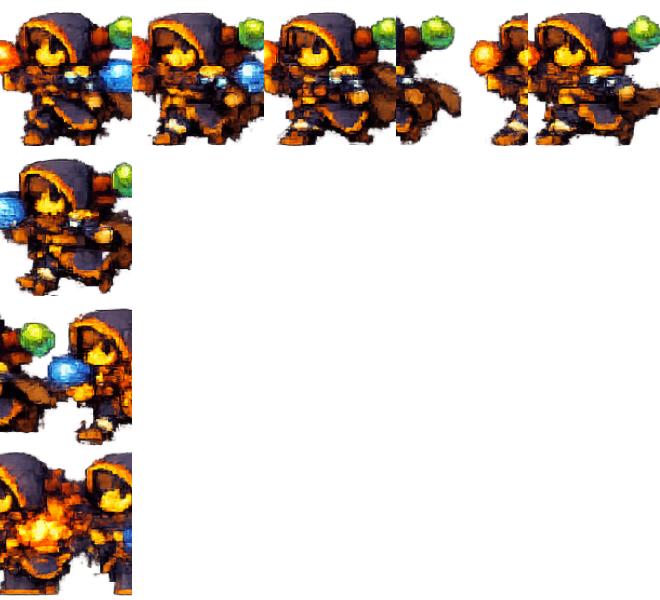
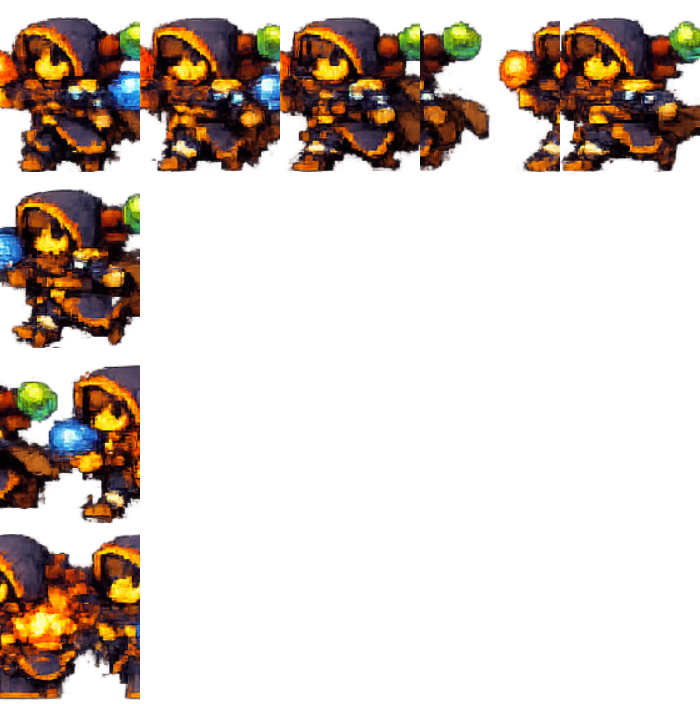
Add monster sprites + dragon boss; fix hero clipping and archer facing
Monsters: turn the single-image uploads into looping animation strips
(make-mobs.mjs) with type motion — slime squash, ghost float, orc/skeleton
breathe, dragon breathe; ghost.png is split into ghost + skeleton. Enemies now
render these via the sheet system (normal/fast=slime, runner/golem=orc,
tank=skeleton, wraith=ghost) with canvas fallback, and the boss is the dragon.

Fixes from feedback:
- Hero frames no longer clip: re-slice at a taller cell (140x176) scaled to the
  tallest frame so raised weapons/effects fit fully; bump HFIT to keep size.
- Archer faces the right way again (flip removed for Faye; its art already
  faces the attack direction).
- Larger enemy/boss sprites so the dragon reads as imposing.

verify7 updated for the monster configs and new flip rules; full suite passes.

Claude-Session: https://claude.ai/code/session_0137Kmgx8usseqRPpPc7daxH

Changed region(s): [[0.0, 0.0, 1.0, 1.0]]

diff --git a/game.js b/game.js
@@ -45,6 +45,8 @@ const ENEMY_TYPES = {
   golem:  { hp:4.5, spd:13, size:2.0,  gold:4 },
   wraith: { hp:1.3, spd:34, size:1.1,  gold:2, slowImmune:true, float:true },
 };
+// which monster sprite each enemy type uses (falls back to canvas art)
+const ENEMY_SPRITE = { normal:'slime', fast:'slime', runner:'orc', tank:'skeleton', golem:'orc', wraith:'ghost' };
 const SLOW_FACTOR = 0.42;              // movement multiplier while frozen
 const PARTY_BUFF_MUL = 1.30;           // Aunel's Dawn Blessing damage buff
 
@@ -684,38 +686,36 @@ function draw(now){
   for (const e of enemies){
     const t = ENEMY_TYPES[e.type] || ENEMY_TYPES.normal;
     const es = size * (e.boss ? 3 : t.size);
-    const floatOff = t.float ? (10 + Math.sin(now/300)*4) : 0;
-    const by = e.y - floatOff;
-    if (e.boss){
-      const atCrystal = e.x <= view.crystalX + 40 * px;
-      const drew = window.Sheets && Sheets.draw(ctx, 'boss', e.x, by, es*16, atCrystal ? 'attack' : 'walk', now);
-      if (!drew){ if (Spr().drawBoss) Spr().drawBoss(ctx, e.x, by, es, e.frame); else drawFallbackChar(e.x, by, es, '#b3407a'); }
+    const sid = e.boss ? 'dragon' : ENEMY_SPRITE[e.type];
+    const th = es * (e.boss ? 12 : 14);               // sprite target height
+    let drew = false, by = e.y;
+    if (window.Sheets && sid) drew = Sheets.draw(ctx, sid, e.x, e.y, th, 'idle', now);
+    if (!drew){
+      const floatOff = t.float ? (10 + Math.sin(now/300)*4) : 0;
+      by = e.y - floatOff;
+      if (e.boss){ if (Spr().drawBoss) Spr().drawBoss(ctx, e.x, by, es, e.frame); else drawFallbackChar(e.x, by, es, '#b3407a'); }
+      else if (Spr().drawEnemy) Spr().drawEnemy(ctx, e.x, by, es, e.type, e.frame, e.hp/e.maxHp);
+      else drawFallbackChar(e.x, by, es, '#b3407a');
     }
-    else if (Spr().drawEnemy) Spr().drawEnemy(ctx, e.x, by, es, e.type, e.frame, e.hp/e.maxHp);
-    else drawFallbackChar(e.x, by, es, '#b3407a');
-    // frozen overlay
+    const spH = drew ? th : es*15;                    // overlays/hp-bar sized to the sprite
+    const ow = spH * 0.62;
     if (e.slow > 0){
       ctx.save(); ctx.globalAlpha = 0.35; ctx.fillStyle = '#9fe4ff';
-      ctx.fillRect(e.x - es*7, by - es*17, es*14, es*17); ctx.restore();
+      ctx.fillRect(e.x - ow/2, by - spH, ow, spH); ctx.restore();
     }
-    // golden shimmer overlay
     if (e.golden){
       ctx.save();
       ctx.globalAlpha = 0.28 + 0.12*Math.sin(now/120 + e.x);
-      ctx.fillStyle = '#ffe14d';
-      ctx.fillRect(e.x - es*7, by - es*17, es*14, es*17);
+      ctx.fillStyle = '#ffe14d'; ctx.fillRect(e.x - ow/2, by - spH, ow, spH);
       ctx.globalAlpha = 0.9; ctx.fillStyle = '#fff6c0';
-      for (let k = 0; k < 3; k++){
-        const a = now/200 + k*2.1;
-        ctx.fillRect(e.x + Math.cos(a)*es*8 - 1, by - es*9 + Math.sin(a)*es*8 - 1, 3, 3);
-      }
+      for (let k = 0; k < 3; k++){ const a = now/200 + k*2.1;
+        ctx.fillRect(e.x + Math.cos(a)*ow*0.5 - 1, by - spH*0.5 + Math.sin(a)*spH*0.4 - 1, 3, 3); }
       ctx.restore();
     }
-    // hp bar
     const bw = 22*px * (e.boss ? 2.2 : t.size);
-    ctx.fillStyle = '#000a'; ctx.fillRect(e.x-bw/2, by - es*15 - 8, bw, 4);
+    ctx.fillStyle = '#000a'; ctx.fillRect(e.x-bw/2, by - spH - 6, bw, 4);
     ctx.fillStyle = e.boss ? '#ff5db1' : '#ff6b6b';
-    ctx.fillRect(e.x-bw/2, by - es*15 - 8, bw*(e.hp/e.maxHp), 4);
+    ctx.fillRect(e.x-bw/2, by - spH - 6, bw*(e.hp/e.maxHp), 4);
   }
 
   // heroes
@@ -739,7 +739,7 @@ function draw(now){
       if (fn){
         // scale the canvas art up so it matches the (larger) sheet heroes
         ctx.save();
-        ctx.translate(slot.x, slot.y); ctx.scale(1.8, 1.8);
+        ctx.translate(slot.x, slot.y); ctx.scale(2.0, 2.0);
         fn(ctx, 0, 0, size, frame);
         ctx.restore();
       } else drawFallbackChar(slot.x, slot.y, size, slot.def.color);

diff --git a/sheets.js b/sheets.js
@@ -24,17 +24,25 @@ window.Sheets = (function () {
   // (idle/walk/attack/cast); frame counts per row vary and are set below.
   const rows4 = (i,w,a,c) => ({ idle:{row:0,frames:i,fps:7}, walk:{row:1,frames:w,fps:9},
                                 attack:{row:2,frames:a,fps:12}, cast:{row:3,frames:c,fps:11} });
+  // monster: one looping row used for every state
+  const mob = n => ({ idle:{row:0,frames:n,fps:8}, walk:{row:0,frames:n,fps:8},
+                      attack:{row:0,frames:n,fps:8}, cast:{row:0,frames:n,fps:8} });
   // flip:true mirrors the sprite horizontally so it faces the incoming enemies
   // (right). Aunel has no sheet and uses the built-in canvas art.
   // sliced sheets pack every character at the same body height, so heroes share
   // one fit for a consistent on-screen size.
-  const HFIT = 1.6;
+  const HFIT = 2.1;   // no-clip cells have headroom, so scale up to stay prominent
   const SHEET_CONFIG = {
     garran: { file:'warrior.png',  rows:4, cols:5, fit:HFIT, flip:true, anim:rows4(5,2,1,1) },  // Knight  (warrior art)
     mira:   { file:'wizard.png',   rows:4, cols:8, fit:HFIT, flip:true, anim:rows4(5,8,2,2) },  // Mage    (purple wizard art)
-    faye:   { file:'archer.png',   rows:4, cols:5, fit:HFIT, flip:true, anim:rows4(5,5,1,2) },  // Archer
+    faye:   { file:'archer.png',   rows:4, cols:5, fit:HFIT,            anim:rows4(5,5,1,2) },  // Archer  (art already faces right)
     rai:    { file:'sorcerer.png', rows:4, cols:5, fit:HFIT, flip:true, anim:rows4(5,1,1,1) },  // Ronin   (elemental sorcerer art)
-    boss:   { file:'shadow.png',   rows:4, cols:5, fit:1.5,  flip:true, anim:rows4(2,5,1,2) },  // Boss    (shadow mage art)
+    // monsters — single-row procedural loops (make-mobs.mjs); enemies play row 0
+    slime:    { file:'slime.png',    rows:1, cols:8, fit:1.0,            anim:mob(8) },
+    ghost:    { file:'ghost.png',    rows:1, cols:8, fit:1.0,            anim:mob(8) },
+    skeleton: { file:'skeleton.png', rows:1, cols:8, fit:1.0, flip:true, anim:mob(8) },
+    orc:      { file:'orc.png',      rows:1, cols:8, fit:1.0, flip:true, anim:mob(8) },
+    dragon:   { file:'dragon.png',   rows:1, cols:8, fit:1.0,            anim:mob(8) },  // Boss
   };
 
   const imgs = {};   // id -> { img, ok, failed }
